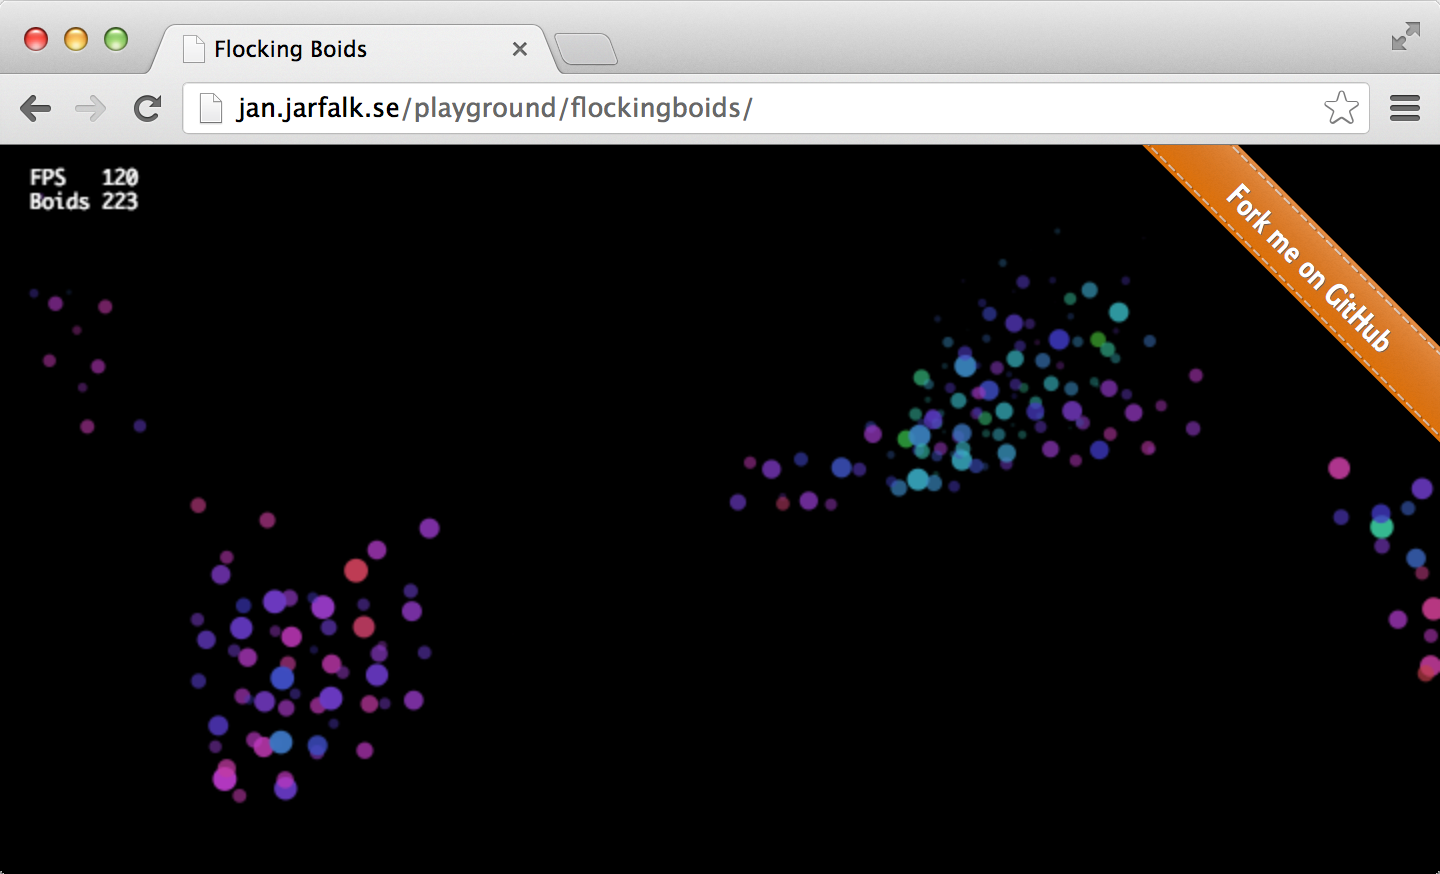
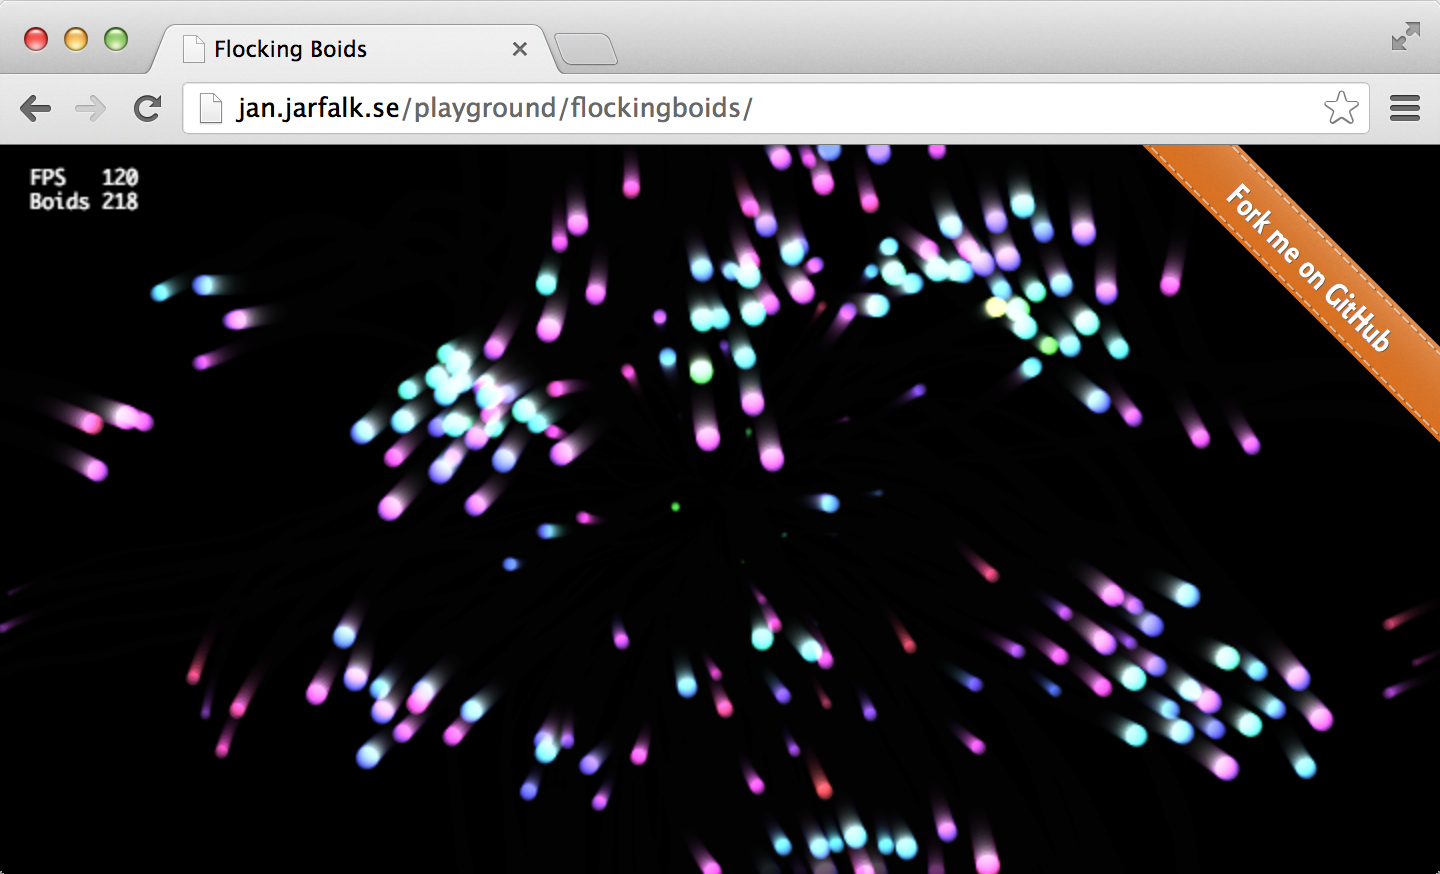
Now with tails

diff --git a/game/components/runner.js b/game/components/runner.js
@@ -79,7 +79,16 @@ define(function () {
         this.bufferContext.clearRect(0, 0, this.width, this.height);
         this.game.draw(this.bufferContext);
         this.drawStats(this.bufferContext);
-        this.canvasContext.clearRect(0, 0, this.width, this.height);
+        
+        // This will give the boids their tail
+        this.canvasContext.globalCompositeOperation = "source-over";
+        this.canvasContext.fillStyle = "rgba(0,0,0,0.25)";
+        this.canvasContext.fillRect(0,0,this.canvas.width,this.canvas.height);
+        this.canvasContext.globalCompositeOperation = "lighter";    
+
+        // Clear frame around stats
+        this.canvasContext.clearRect(15, 10, 60, 25);
+
         this.canvasContext.drawImage(this.buffer, 0, 0);
     };
 
